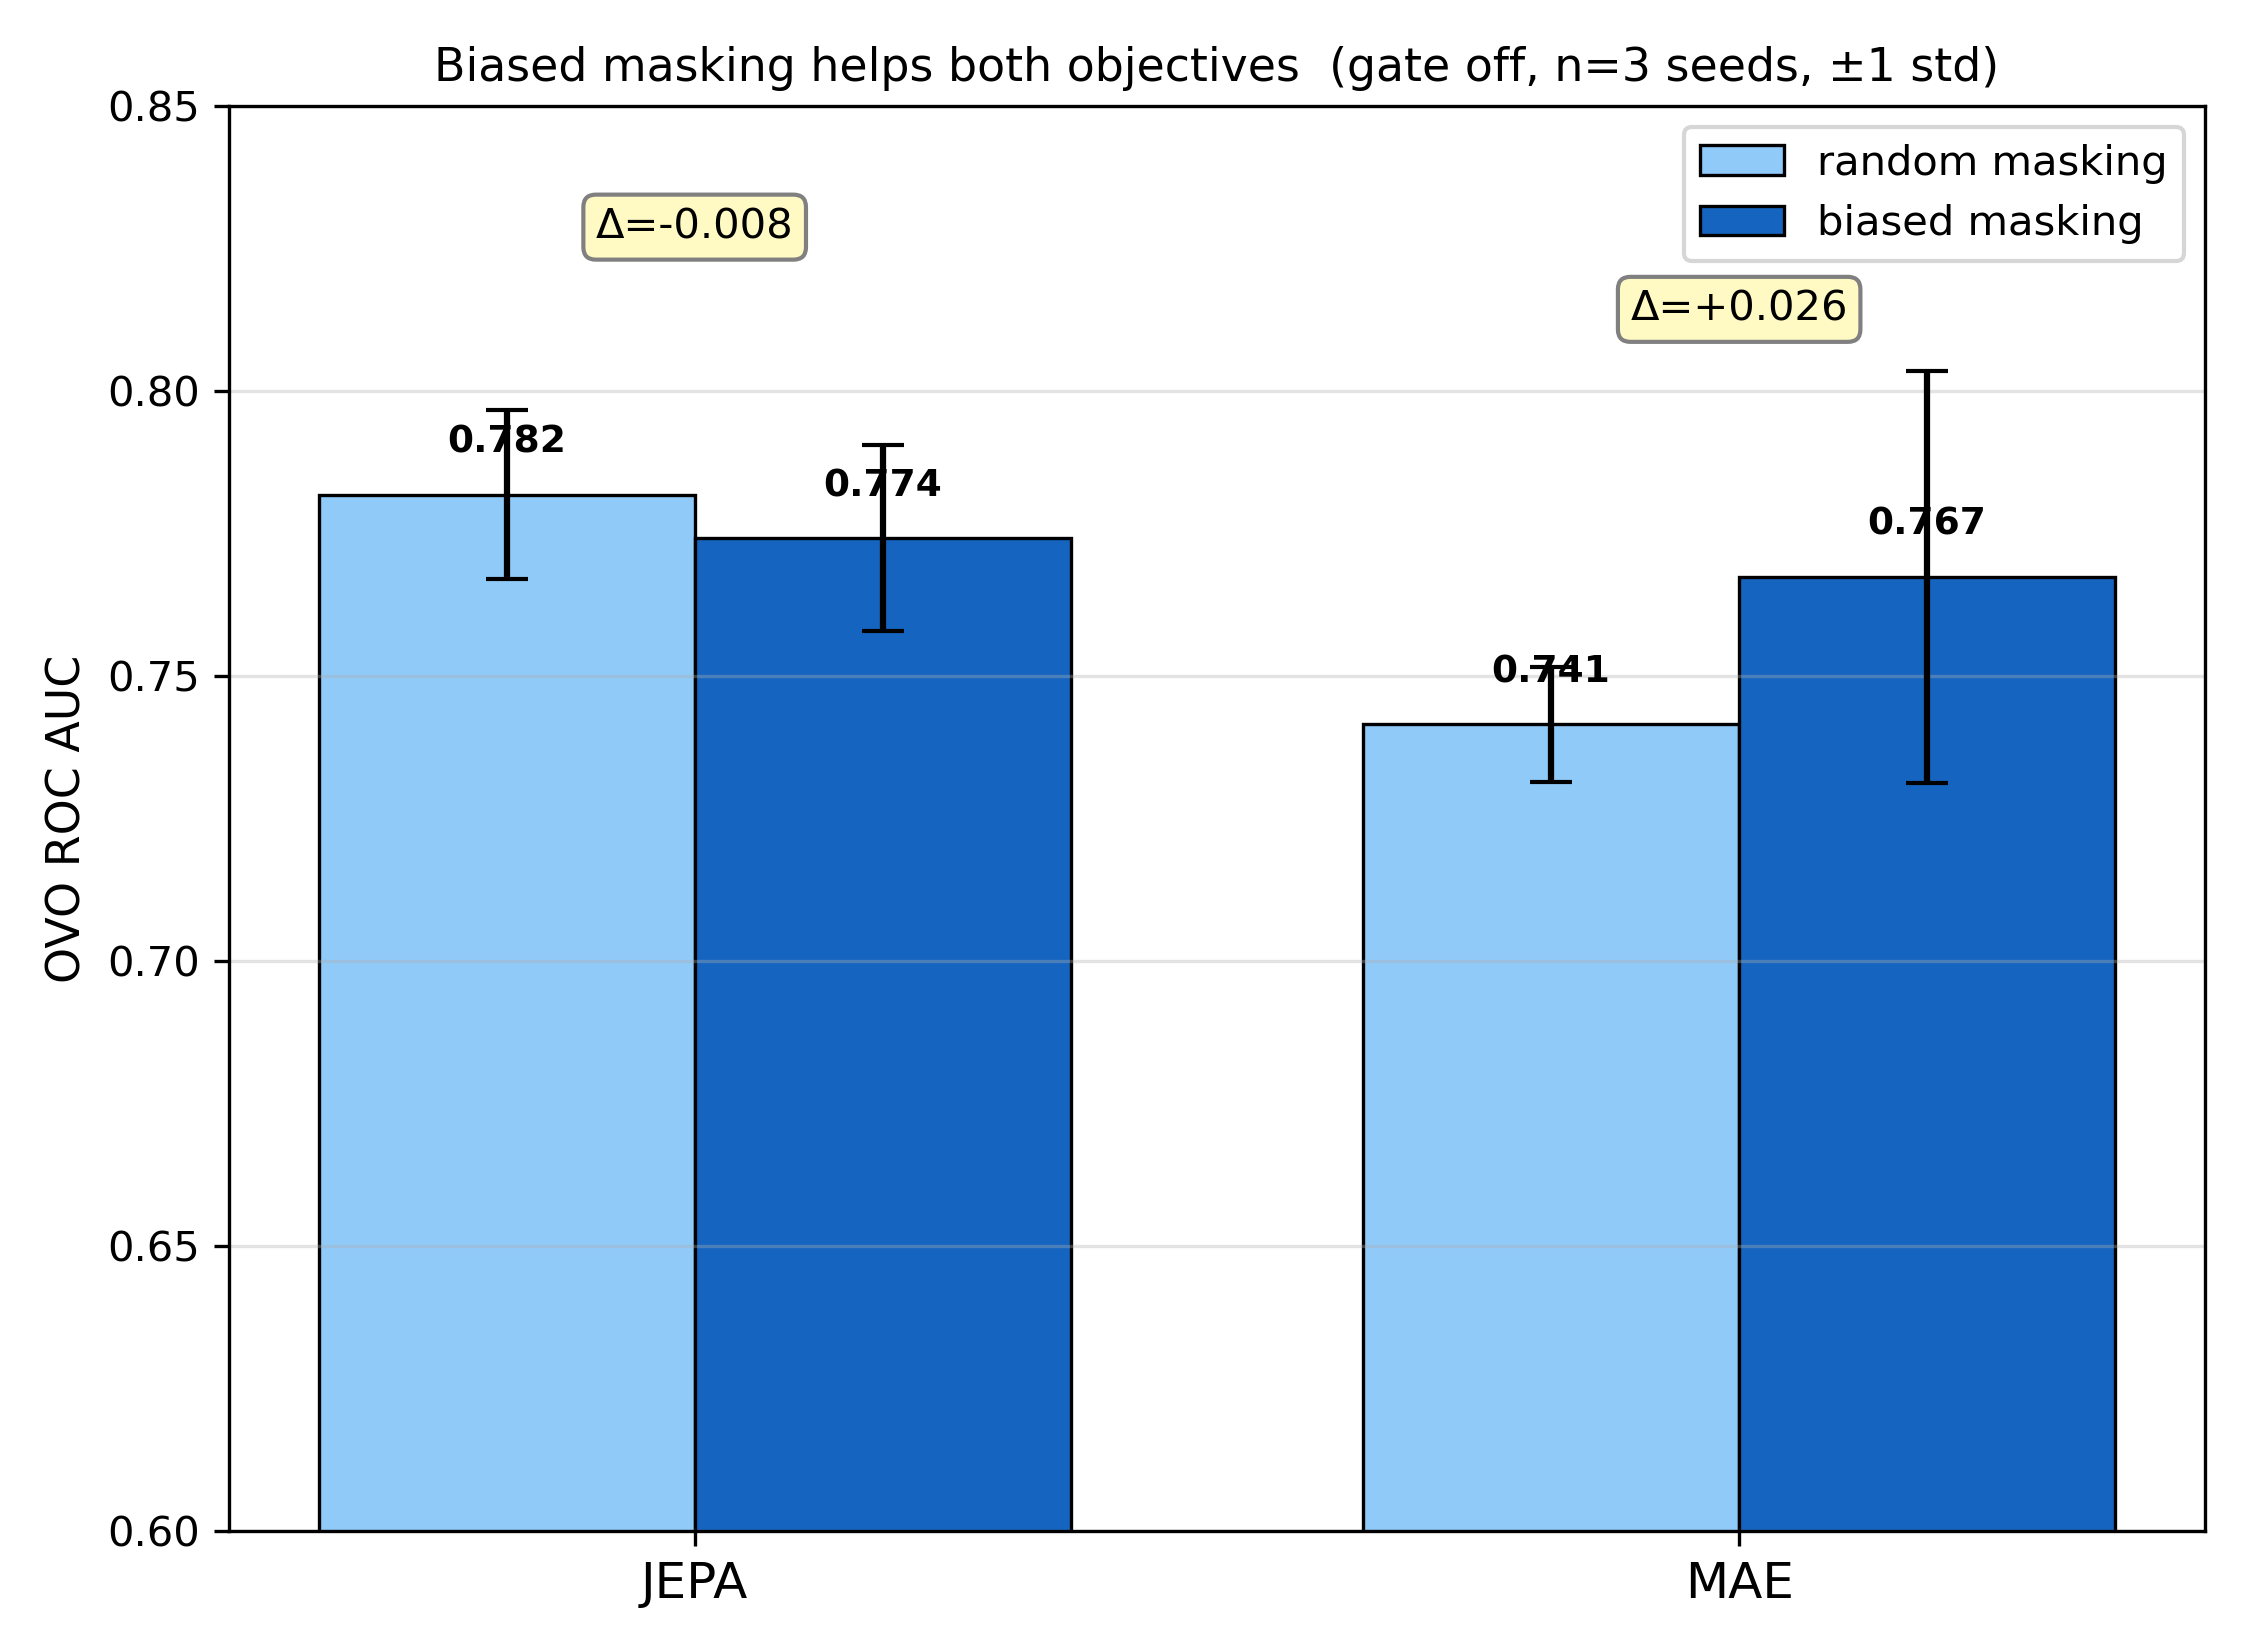
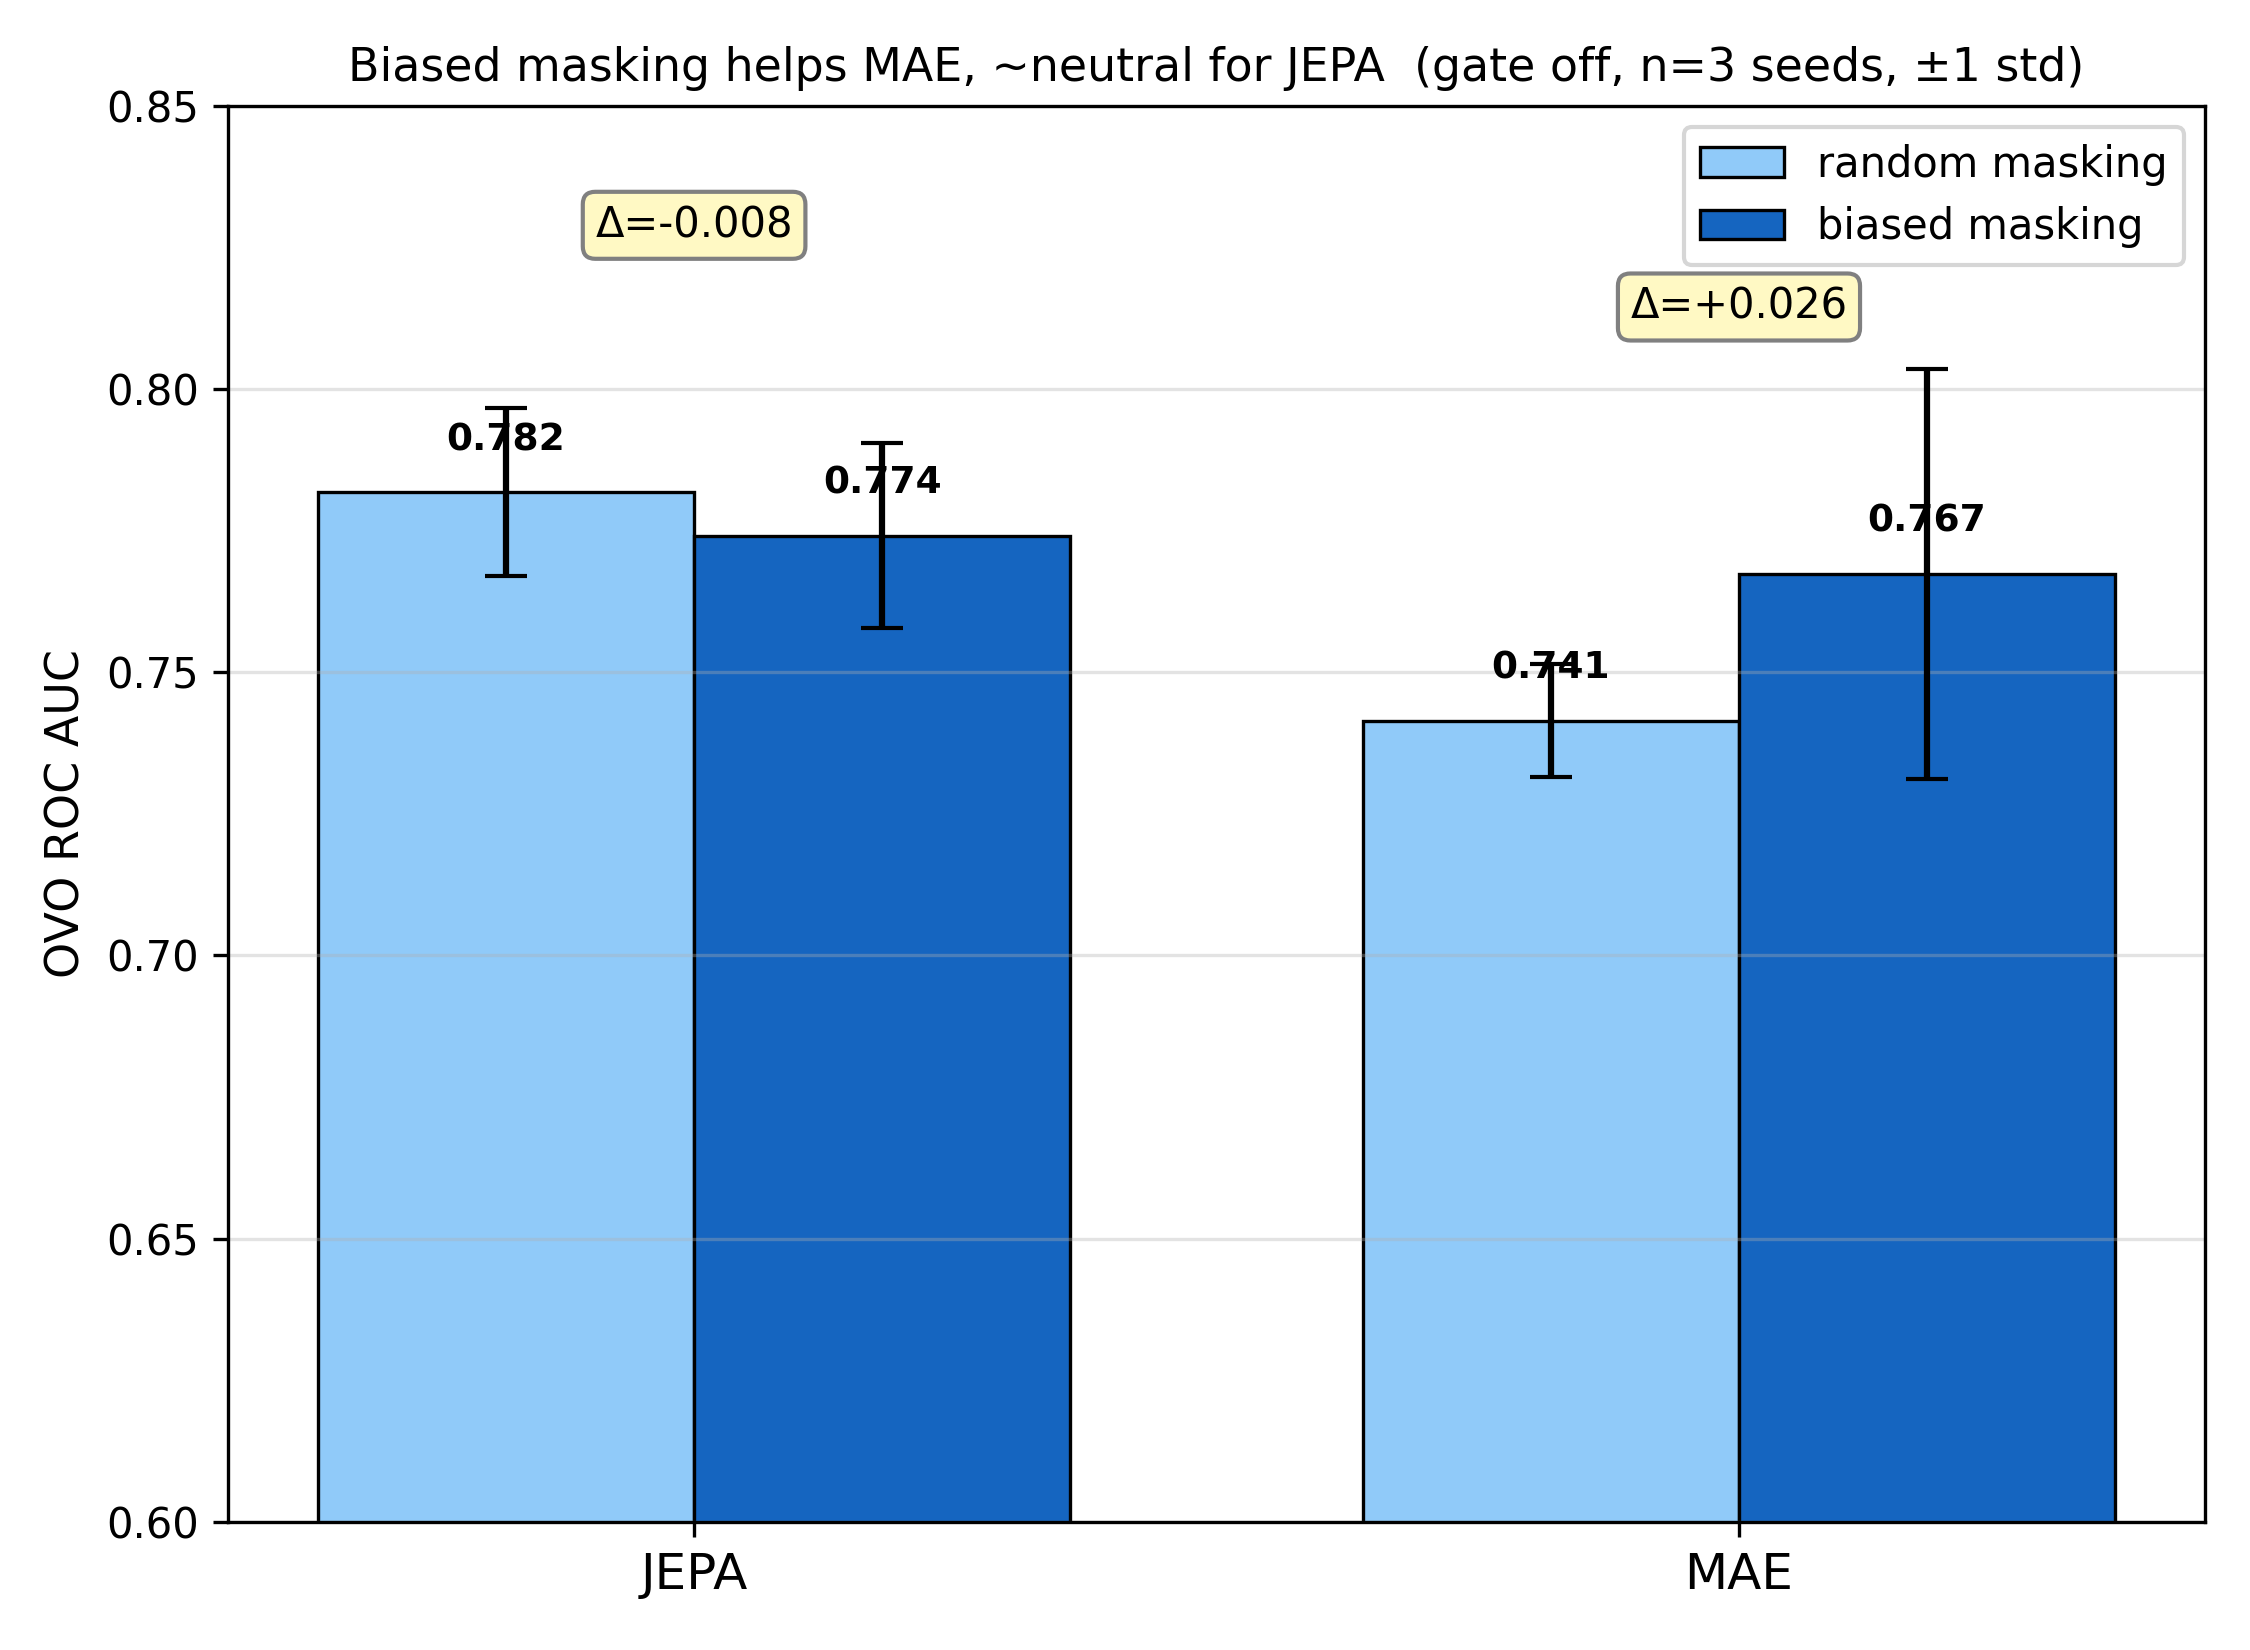
fix walltime comparison script

diff --git a/experiments/phase2/plot_walltime.py b/experiments/phase2/plot_walltime.py
@@ -25,7 +25,13 @@ Pretrain time comes from the seed JSONs (pretrain_time_s); finetune wall-clock
 comes from the finetune CSVs in logs/, so run this ON THE CLUSTER.
 
     python experiments/phase2/plot_walltime.py \\
-        --results-dir experiments/phase2/results --tag 1m --seeds 42 123 456
+        --results-dir experiments/phase2/results --tag 1m --seeds 42 123 456 \\
+        --jepa-encoder best      # charge JEPA only to its best-val epoch (~1h), not the full 4h
+
+--jepa-encoder final (default) charges JEPA the full pretrain and uses the final
+encoder's finetune; --jepa-encoder best uses the best-val encoder (pretrain timed
+to the val-loss minimum + --jepa-patience epochs, finetune = *_bestft_*). Output
+is walltime_convergence.png / walltime_convergence_bestval.png respectively.
 """
 
 import argparse
@@ -39,13 +45,46 @@ matplotlib.use('Agg')
 import matplotlib.pyplot as plt
 import numpy as np
 
-# (label, JSON condition key, finetune-CSV stem, colour). scratch's CSV has no
-# '_ft_' tag — matches run_phase2's naming.
-METHODS = [
-    ('JEPA',    'jepa_finetune', 'jepa_{tag}_ft_seed{s}',  '#1f77b4'),
+# Base (label, JSON condition key, finetune-CSV stem, colour) for MAE/scratch.
+# The JEPA row is built in main() so --jepa-encoder can switch it between the
+# final encoder and the (cheaper, ~equal-accuracy) best-val encoder.
+BASE_METHODS = [
     ('MAE',     'mae_finetune',  'mae_{tag}_ft_seed{s}',   '#2ca02c'),
     ('Scratch', 'scratch',       'scratch_{tag}_seed{s}',  '#ff7f0e'),
 ]
+
+
+def bestval_pretrain_seconds(pretrain_csv, patience):
+    """Elapsed_total_s at the val-loss minimum + `patience` epochs — the honest
+    stopping point for taking the best-val encoder (you must train a little past
+    the minimum to confirm it). JEPA pretrain CSV cols:
+    epoch,emb_loss,val_loss,lr,ema,epoch_t,elapsed,best."""
+    if not os.path.exists(pretrain_csv):
+        return None
+    rows = []
+    with open(pretrain_csv) as f:
+        for r in csv.reader(f):
+            try:
+                rows.append((int(float(r[0])), float(r[2]), float(r[6])))  # epoch, val_loss, elapsed
+            except (ValueError, IndexError):
+                continue
+    if not rows:
+        return None
+    best_ep = min(rows, key=lambda t: t[1])[0]
+    cand = [e for e in rows if e[0] >= best_ep + patience]
+    return (cand[0][2] if cand else rows[-1][2])
+
+
+def bestft_auc(diag_dir, seed):
+    """Best-val finetune OVO AUC from diag_bestft (roc_auc_ovo); None if absent."""
+    for name in (f'seed{seed}.json', f'seed_{seed}.json'):
+        p = os.path.join(diag_dir, name)
+        if os.path.exists(p):
+            try:
+                return float(json.load(open(p)).get('roc_auc_ovo'))
+            except Exception:
+                return None
+    return None
 
 
 def read_ft_csv(path):
@@ -83,9 +122,26 @@ def main():
     p.add_argument('--seeds',       nargs='+', type=int, default=[42, 123, 456])
     p.add_argument('--tag',         default='1m')
     p.add_argument('--output-dir',  default=None, help='defaults to --results-dir')
+    p.add_argument('--jepa-encoder', choices=['final', 'best'], default='final',
+                   help="'final': full-schedule encoder (pretrain = full run). "
+                        "'best': best-val encoder (pretrain charged only to the val-loss "
+                        "minimum + patience) — ~equal accuracy, far cheaper.")
+    p.add_argument('--jepa-pretrain-dir', default='./logs/ParticleJEPA/logging',
+                   help="JEPA pretrain CSVs (to time the best-val epoch).")
+    p.add_argument('--jepa-patience', type=int, default=5,
+                   help="epochs past the val-loss minimum to charge as pretrain "
+                        "for --jepa-encoder best (honest deployable stop).")
+    p.add_argument('--jepa-bestft-json', default='./experiments/phase2/diag_bestft',
+                   help="dir with best-val finetune JSONs (roc_auc_ovo) for the AUC label.")
     args = p.parse_args()
     out = args.output_dir or args.results_dir
     os.makedirs(out, exist_ok=True)
+
+    # JEPA row depends on the chosen encoder; best-val uses the *_bestft_* finetune.
+    jbest  = args.jepa_encoder == 'best'
+    jlabel = 'JEPA (best-val)' if jbest else 'JEPA'
+    jstem  = 'jepa_{tag}_bestft_seed{s}' if jbest else 'jepa_{tag}_ft_seed{s}'
+    METHODS = [(jlabel, 'jepa_finetune', jstem, '#1f77b4')] + BASE_METHODS
 
     agg = {m[0]: {'pre': [], 'ft': [], 'auc': []} for m in METHODS}
     ft_curves    = defaultdict(list)   # label -> [(finetune_hours, val_metric), ...]
@@ -101,6 +157,15 @@ def main():
             c = cond.get(key, {})
             pre = c.get('pretrain_time_s') or 0.0
             auc = c.get('test_auc')
+            if label == jlabel and jbest:                    # best-val JEPA: cheaper pretrain + its own AUC
+                bp = bestval_pretrain_seconds(
+                    os.path.join(args.jepa_pretrain_dir, f'jepa_{args.tag}_seed{s}.csv'),
+                    args.jepa_patience)
+                if bp is not None:
+                    pre = bp
+                ba = bestft_auc(args.jepa_bestft_json, s)
+                if ba is not None:
+                    auc = ba
             csvp = os.path.join(args.logs_dir, stem.format(tag=args.tag, s=s) + '.csv')
             if not os.path.exists(csvp):
                 print(f'[warn] missing finetune CSV {csvp}')
@@ -149,7 +214,7 @@ def main():
         ax.set_xlabel(xlabel)
         ax.legend(loc='lower right')
     # mark where each pretrained method begins finetuning on the total-clock panel
-    for label in ('JEPA', 'MAE'):
+    for label in (jlabel, 'MAE'):
         if pre_h[label] > 0:
             axR.axvline(pre_h[label], ls=':', color=colors[label], lw=1.2)
             axR.text(pre_h[label], axR.get_ylim()[0], f' {label} ft start',
@@ -157,8 +222,9 @@ def main():
     axL.set_ylabel('val metric (accuracy)')
     fig.suptitle('Time-to-accuracy: finetune-only vs. total (pretrain-charged) wall-clock', y=1.02)
     fig.tight_layout()
-    fig.savefig(os.path.join(out, 'walltime_convergence.png'), dpi=300, bbox_inches='tight')
-    print('wrote walltime_convergence.png')
+    fname = 'walltime_convergence_bestval.png' if jbest else 'walltime_convergence.png'
+    fig.savefig(os.path.join(out, fname), dpi=300, bbox_inches='tight')
+    print('wrote', fname)
 
     # ---- table ----
     print(f"\n{'method':10s}{'pretrain_h':>12s}{'finetune_h':>12s}{'total_h':>10s}{'auc':>9s}")

diff --git a/experiments/plot_masking_effect.py b/experiments/plot_masking_effect.py
@@ -97,7 +97,7 @@ def main():
     ax.set_xticklabels(GROUPS, fontsize=12)
     ax.set_ylabel('OVO ROC AUC', fontsize=11)
     ax.set_ylim(0.6, 0.85)
-    ax.set_title(f'Biased masking helps both objectives  (gate off, n={n} seeds, ±1 std)',
+    ax.set_title(f'Biased masking helps MAE, ~neutral for JEPA  (gate off, n={n} seeds, ±1 std)',
                  fontsize=11)
     ax.legend(fontsize=10)
     ax.grid(axis='y', alpha=0.35)